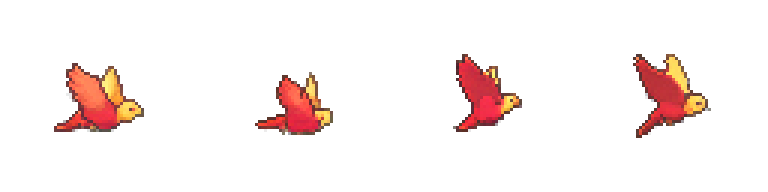
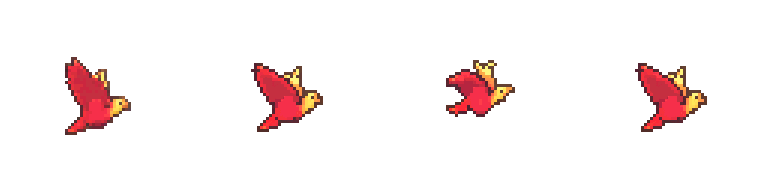
Menu estatico con la familia y el merendero en la ilustracion
Se quitan las cuatro capas animadas que se habian montado sobre el fondo
-nubes, pajaros, luciernagas y la familia caminando- junto con su
on_update, sus constantes y el helper de tinte de escena. menu.py pasa de
785 a 592 lineas.

El motivo es que sprites de juego encima de una ilustracion pintada nunca
terminaron de integrarse: son dos tecnicas distintas, y ni la luz calida
ni las sombras propias alcanzaron a disimularlo. Ademas cada capa traia su
propio problema de arte -las nubes eran una animacion de crecimiento y no
un ciclo, los pajaros no bajaban las alas- que habria que haber resuelto
generando arte nuevo para cada una.

En su lugar, el fondo es una ilustracion fija donde la familia y el
merendero ya estan pintados dentro, que es lo que las capas intentaban
lograr. La familia va corrida a la izquierda para que la columna de
botones no la tape.

La ilustracion vino con una marca de agua inventada por el modelo, que se
borro reemplazando solo los pixeles del texto por tonos del pasto vecino;
clonar un bloque entero dejaba una costura visible.

Las tres tiras de animacion (nubes_anim, pajaros_anim, luciernagas_anim)
quedan en el repo aunque ya no se usan, por si se retoma la idea.

diff --git a/menu.py b/menu.py
@@ -19,10 +19,14 @@
 #     personajes de la familia de UAIBOT.
 #   - Multijugador (multijugador.py) es el cooperativo para dos jugadores
 #     en red local, sobre los 10 mapas de dificultad difícil.
-# Solo Inventario/Bestiario sigue mostrando la pantalla "Próximamente"
-# (clase Placeholder, al final del archivo).
-
-import math
+#   - Inventario/Bestiario (clase Inventario, en este archivo) muestra la
+#     familia y los objetos coleccionables del Multijugador.
+#
+# El fondo es una ilustración fija: la familia y el merendero ya están
+# pintados dentro de ella. Hubo una versión con capas animadas encima
+# -nubes, pájaros, luciérnagas y la familia caminando- que se quitó porque
+# los sprites de juego sobre una ilustración pintada nunca terminaron de
+# integrarse, por más luz y sombra que se les aplicara.
 
 import arcade
 
@@ -43,74 +47,6 @@ PASO_VOLUMEN  = 0.1
 # lista a medida que cada modo se implementa en las fases siguientes.
 MODOS_PENDIENTES: set = set()
 
-# ── Fondo animado: la familia caminando ───────────────────────────────────────
-# Los cuatro personajes cruzan el sendero de la ilustración en loop. Se dibujan
-# ENTRE el fondo y el overlay oscuro, así reciben el mismo oscurecido que la
-# escena -quedan integrados en vez de pegados encima- y los botones se leen
-# por arriba sin competir con ellos.
-# La altura importa: puestos al nivel de los pies del UAIBOT ilustrado, sus
-# 72px contra los 250px de él se leen como un error de escala. Subidos al
-# plano medio del sendero, el mismo tamaño se lee como distancia y funciona.
-CAMINATA_Y          = 210   # altura de la banda del sendero, en plano medio
-CAMINATA_TAM        = 115   # lado del frame al dibujarlo
-CAMINATA_SEPARACION = 105   # distancia entre uno y otro: caminan en grupo
-# Los sprites son claros y fríos; la ilustración es cálida y está en penumbra
-# de atardecer. Dibujados tal cual quedan flotando, como calcomanías sobre el
-# fondo. LUZ_ESCENA los tiñe con el color de la hora y la sombra los apoya en
-# el piso. La luz la reciben TODAS las capas que están dentro de la escena
-# -nubes, pájaros y la familia-, no solo una: que una sola estuviera integrada
-# y el resto no era justamente lo que se veía inconsistente.
-LUZ_ESCENA          = (188, 158, 122)   # luz cálida de atardecer
-# La sombra va en NEGRO con alpha, no en un gris oscuro: la escena tiene
-# zonas de valor 4-7, más oscuras que cualquier gris, y mezclar hacia un
-# color más claro que el fondo ACLARA en vez de oscurecer. Mezclar hacia
-# negro oscurece siempre, sea cual sea el piso, y deja pasar su textura.
-CAMINATA_SOMBRA     = (0, 0, 0, 70)     # sombra elíptica a los pies
-CAMINATA_VELOCIDAD  = 26    # px por segundo
-CAMINATA_FPS        = 6     # poses por segundo
-
-# ── Nubes animadas del fondo ──────────────────────────────────────────────────
-# Spritesheet de 4 frames (assets/nubes_anim.png) generado con PixelLab y
-# puesto en tira horizontal con el mismo criterio que llave_anim.png. Las
-# nubes derivan por el cielo del fondo ilustrado a distintas velocidades:
-# eso, más el morphing del spritesheet, es lo que le da vida al menú sin
-# tocar la ilustración original.
-NUBE_TAM  = 192   # lado del frame al dibujarlo (64px nativos, x3)
-NUBES_FPS = 3     # cuadros por segundo del morphing: sutil, no frenético
-NUBES = [
-    # (altura y, velocidad px/s, fase inicial 0-1, transparencia 0-255)
-    (ALTO_VENTANA - 110, 14, 0.00, 190),   # baja y cercana, la más rápida
-    (ALTO_VENTANA - 170,  9, 0.45, 170),
-    (ALTO_VENTANA - 235,  5, 0.75, 150),   # alta y lejana, casi quieta
-]
-
-# ── Pájaros y luciérnagas del fondo ───────────────────────────────────────────
-# Mismo mecanismo que las nubes (tira de 4 frames), pero cruzando y
-# deambulando: los pájaros van altos y rápido, las luciérnagas titilan
-# cerca del pasto. La idea es que el fondo tenga tres capas de vida a
-# distintas alturas y velocidades.
-PAJARO_TAM   = 96    # los pájaros se dibujan a la mitad que las nubes
-PAJAROS_FPS  = 6     # aleteo más rápido que el morphing de las nubes
-PAJAROS = [
-    # (altura y, velocidad px/s, fase inicial 0-1)
-    (ALTO_VENTANA - 290, 60, 0.10),
-    (ALTO_VENTANA - 330, 52, 0.55),
-]
-LUCIERNAGA_TAM   = 44   # chiquitas: son puntos de luz, no protagonistas
-# No reciben LUZ_ESCENA como las demás capas: emiten en vez de recibir, así
-# que van con su propio verde cálido, apenas por encima del blanco.
-BRILLO_LUCIERNAGA = (255, 245, 190)
-LUCIERNAGAS_FPS  = 4
-# (centro x, centro y, amplitud x, amplitud y, velocidad de vaivén, fase)
-LUCIERNAGAS = [
-    (ANCHO_VENTANA * 0.18, 120, 55, 30, 0.45, 0.0),
-    (ANCHO_VENTANA * 0.42,  95, 70, 38, 0.33, 1.3),
-    (ANCHO_VENTANA * 0.60, 150, 45, 26, 0.52, 2.4),
-    (ANCHO_VENTANA * 0.80,  80, 60, 32, 0.38, 4.0),
-    (ANCHO_VENTANA * 0.32, 185, 38, 22, 0.60, 5.1),
-]
-
-
 class Menu(arcade.View):
     # Player de música a nivel de clase: el menú se reconstruye cada vez que
     # se vuelve de un modo (show_view(Menu())), y así el nuevo Menú puede
@@ -128,8 +64,7 @@ class Menu(arcade.View):
 
     # ── Assets ────────────────────────────────────────────────────────────────
     def _cargar_assets(self):
-        """Carga el fondo del menú, los ribbons de botones y la familia que
-        camina por el fondo animado."""
+        """Carga el fondo ilustrado del menú y los ribbons de botones."""
         self.img_fondo = arcade.load_texture("assets/fondo_menu.png")
 
         # Los ribbons vienen apilados verticalmente, uno por opción del menú.
@@ -150,67 +85,7 @@ class Menu(arcade.View):
             for i in range(cantidad)
         ]
 
-        # Familia para el fondo animado. Reusa exactamente las mismas hojas
-        # que el juego, con la misma regla de tinte: quien tiene arte propio
-        # va sin teñir, quien no, teñido con su color.
-        self.familia         = spr.cargar_familia(PERSONAJES_FAMILIA, 128, 128)
-        self.orden_desfile   = [p["id"] for p in PERSONAJES_FAMILIA]
-        self.desplazamiento  = 0.0
-        self.frame_caminata  = 0
-        self.timer_caminata  = 0.0
-
-        # Nubes, pájaros y luciérnagas: tiras horizontales de 4 frames. El
-        # corte por geometría real de la imagen (y no un número mágico) va
-        # en un helper porque las tres comparten el mismo formato.
-        def cortar_tira(ruta, ida_y_vuelta=False):
-            """Corta una tira horizontal de 4 frames para el fondo animado.
-
-            Descarta los frames completamente transparentes: nubes_anim.png
-            trae el primero vacío, y dejarlo hacía que las nubes se borraran
-            un tercio de segundo en cada vuelta del ciclo.
-
-            Con ida_y_vuelta el ciclo va y vuelve en vez de reiniciar de
-            golpe. Las nubes lo necesitan porque su tira no es un loop sino
-            una animación de crecimiento -chica, mediana, grande-, y saltar
-            de la grande a la chica se ve como un tirón; yendo y volviendo
-            la nube se hincha y se deshincha, que es lo que hace una nube."""
-            sheet   = arcade.load_spritesheet(ruta)
-            ancho_f = sheet.image.width // 4
-            frames  = []
-            for i in range(4):
-                recorte = sheet.image.crop((i * ancho_f, 0, (i + 1) * ancho_f,
-                                            sheet.image.height))
-                if recorte.getbbox() is None:
-                    continue          # frame vacío: solo haría parpadear
-                frames.append(sheet.get_texture(
-                    arcade.LRBT(i * ancho_f, (i + 1) * ancho_f,
-                                0, sheet.image.height)))
-            if ida_y_vuelta and len(frames) > 2:
-                frames += frames[-2:0:-1]
-            return frames
-
-        self.frames_nubes       = cortar_tira("assets/nubes_anim.png",
-                                              ida_y_vuelta=True)
-        self.frames_pajaros     = cortar_tira("assets/pajaros_anim.png")
-        self.frames_luciernagas = cortar_tira("assets/luciernagas_anim.png")
-        # Las tres capas animadas del fondo siguen el mismo patrón: un
-        # acumulador de tiempo continuo -compartido, del que salen todas las
-        # derivas- y, por capa, un timer propio más un contador de frames para
-        # el morphing de su tira. Se inicializan las tres juntas a propósito:
-        # faltaban las de pájaros y luciérnagas, y el menú crasheaba con
-        # AttributeError en el primer on_update.
-        self.tiempo_nubes = 0.0   # acumulador común de las derivas
-        self.frame_nubes,       self.timer_nubes       = 0, 0.0
-        self.frame_pajaros,     self.timer_pajaros     = 0, 0.0
-        self.frame_luciernagas, self.timer_luciernagas = 0, 0.0
-
         self.musica = arcade.load_sound("assets/MenuMusic.wav")
-
-        # De un borde a otro con margen para entrar y salir de cuadro. Van
-        # juntos y no repartidos por toda la pantalla: repartidos, la columna
-        # de botones tapa siempre a dos, y la idea es que se vea la familia
-        # entera. En grupo cruzan los claros de izquierda y derecha completos.
-        self.recorrido = ANCHO_VENTANA + CAMINATA_TAM * 2
 
     # ── Textos ────────────────────────────────────────────────────────────────
     def _crear_textos(self):
@@ -270,110 +145,6 @@ class Menu(arcade.View):
             arcade.stop_sound(cls.musica_player)
             cls.musica_player = None
 
-    def on_update(self, delta_time):
-        """Avanza el desfile de la familia. El menú no tenía on_update: era una
-        pantalla estática, y esta es la única animación que corre acá."""
-        self.desplazamiento = (self.desplazamiento
-                               + CAMINATA_VELOCIDAD * delta_time) % self.recorrido
-        self.timer_caminata += delta_time
-        if self.timer_caminata >= 1 / CAMINATA_FPS:
-            self.timer_caminata -= 1 / CAMINATA_FPS
-            self.frame_caminata += 1
-
-        # Nubes: acumulador continuo para la deriva (velocidades fraccionales)
-        # y timer propio para el morphing del spritesheet.
-        self.tiempo_nubes += delta_time
-        self.timer_nubes  += delta_time
-        if self.timer_nubes >= 1 / NUBES_FPS:
-            self.timer_nubes -= 1 / NUBES_FPS
-            self.frame_nubes += 1
-
-        # Pájaros y luciérnagas: mismo patrón, cada uno a su ritmo.
-        self.timer_pajaros += delta_time
-        if self.timer_pajaros >= 1 / PAJAROS_FPS:
-            self.timer_pajaros -= 1 / PAJAROS_FPS
-            self.frame_pajaros += 1
-
-        self.timer_luciernagas += delta_time
-        if self.timer_luciernagas >= 1 / LUCIERNAGAS_FPS:
-            self.timer_luciernagas -= 1 / LUCIERNAGAS_FPS
-            self.frame_luciernagas += 1
-
-    def _dibujar_nubes(self):
-        """Dibuja las tres nubes del fondo animado: cada una deriva a su
-        velocidad y comparte el frame de morphing. La transparencia crece
-        con la altura para que las lejanas se integren al cielo."""
-        recorrido = ANCHO_VENTANA + NUBE_TAM
-        frame     = self.frames_nubes[self.frame_nubes % len(self.frames_nubes)]
-        for y, velocidad, fase, alpha in NUBES:
-            x = -NUBE_TAM + (fase * recorrido
-                             + self.tiempo_nubes * velocidad) % recorrido
-            arcade.draw_texture_rect(
-                frame, arcade.XYWH(x, y, NUBE_TAM, NUBE_TAM),
-                color=arcade.types.Color(*self._tinte_escena((255, 255, 255)), alpha)
-            )
-
-    def _dibujar_pajaros(self):
-        """Dos pájaros cruzando el cielo aleteando (frames a PAJAROS_FPS).
-        Van más alto y más rápido que las nubes: son la capa media del
-        fondo animado."""
-        recorrido = ANCHO_VENTANA + PAJARO_TAM
-        frame     = self.frames_pajaros[self.frame_pajaros % len(self.frames_pajaros)]
-        for y, velocidad, fase in PAJAROS:
-            x = -PAJARO_TAM + (fase * recorrido
-                               + self.tiempo_nubes * velocidad) % recorrido
-            arcade.draw_texture_rect(
-                frame, arcade.XYWH(x, y, PAJARO_TAM, PAJARO_TAM),
-                color=arcade.types.Color(*self._tinte_escena((255, 255, 255)), 220)
-            )
-
-    def _dibujar_luciernagas(self):
-        """Las luciérnagas deambulan cerca del pasto con un vaivén suave
-        (seno en x e y, desfasado para que no orbiten en círculos) y su
-        brillo pulsa con el sprite. Van al final para que titilen por
-        encima de la familia que camina."""
-        frame = self.frames_luciernagas[self.frame_luciernagas
-                                        % len(self.frames_luciernagas)]
-        t     = self.tiempo_nubes
-        for cx, cy, ampx, ampy, vel, fase in LUCIERNAGAS:
-            x = cx + math.sin(vel * t + fase) * ampx
-            y = cy + math.sin(vel * t * 1.7 + fase * 2.0) * ampy
-            arcade.draw_texture_rect(
-                frame, arcade.XYWH(x, y, LUCIERNAGA_TAM, LUCIERNAGA_TAM),
-                color=arcade.types.Color(*BRILLO_LUCIERNAGA, 230)
-            )
-
-    def _dibujar_caminata(self):
-        """Dibuja a los cuatro cruzando el sendero, repartidos parejo y en loop.
-
-        El módulo sobre len(frames) es necesario porque cada personaje puede
-        traer distinta cantidad de poses (UAIBOT tiene 6, sus hermanos 4)."""
-        # el personaje va apoyado al fondo de su frame, así que los pies caen
-        # en el borde inferior del cuadrado que se dibuja
-        y_pies = CAMINATA_Y - CAMINATA_TAM / 2 + 2
-
-        for i, id_personaje in enumerate(self.orden_desfile):
-            datos  = self.familia[id_personaje]
-            frames = datos["walk"]
-            x = -CAMINATA_TAM + (i * CAMINATA_SEPARACION
-                                 + self.desplazamiento) % self.recorrido
-
-            arcade.draw_ellipse_filled(x, y_pies, CAMINATA_TAM * 0.17,
-                                       CAMINATA_TAM * 0.05, CAMINATA_SOMBRA)
-            arcade.draw_texture_rect(
-                frames[self.frame_caminata % len(frames)],
-                arcade.XYWH(x, CAMINATA_Y, CAMINATA_TAM, CAMINATA_TAM),
-                color=arcade.types.Color(*self._tinte_escena(datos["color"]))
-            )
-
-    @staticmethod
-    def _tinte_escena(color):
-        """Multiplica el color del personaje por la luz de la escena. Se
-        multiplica en vez de reemplazar para no perder el tinte de los
-        personajes que todavía no tienen arte propio."""
-        return tuple(c * luz // 255 for c, luz in zip(color, LUZ_ESCENA))
-
-    # ── Eventos de teclado ────────────────────────────────────────────────────
     def on_key_press(self, symbol, modifiers):
         if self.submenu == "ajustes":
             self._manejar_ajustes(symbol)
@@ -526,15 +297,7 @@ class Menu(arcade.View):
             self.img_fondo,
             arcade.XYWH(ANCHO_VENTANA // 2, ALTO_VENTANA // 2, ANCHO_VENTANA, ALTO_VENTANA)
         )
-        self._dibujar_nubes()
-        self._dibujar_pajaros()
-        self._dibujar_caminata()
         arcade.draw_lrbt_rectangle_filled(0, ANCHO_VENTANA, 0, ALTO_VENTANA, (0, 0, 0, 100))
-        # Las luciérnagas van DESPUÉS del oscurecido: son fuentes de luz, no
-        # objetos iluminados. Dibujadas antes, el overlay las apagaba junto
-        # con el resto de la escena, que es exactamente lo contrario de lo
-        # que hace una luciérnaga.
-        self._dibujar_luciernagas()
 
         self.txt_titulo.draw()
         self.txt_subtitulo.draw()
